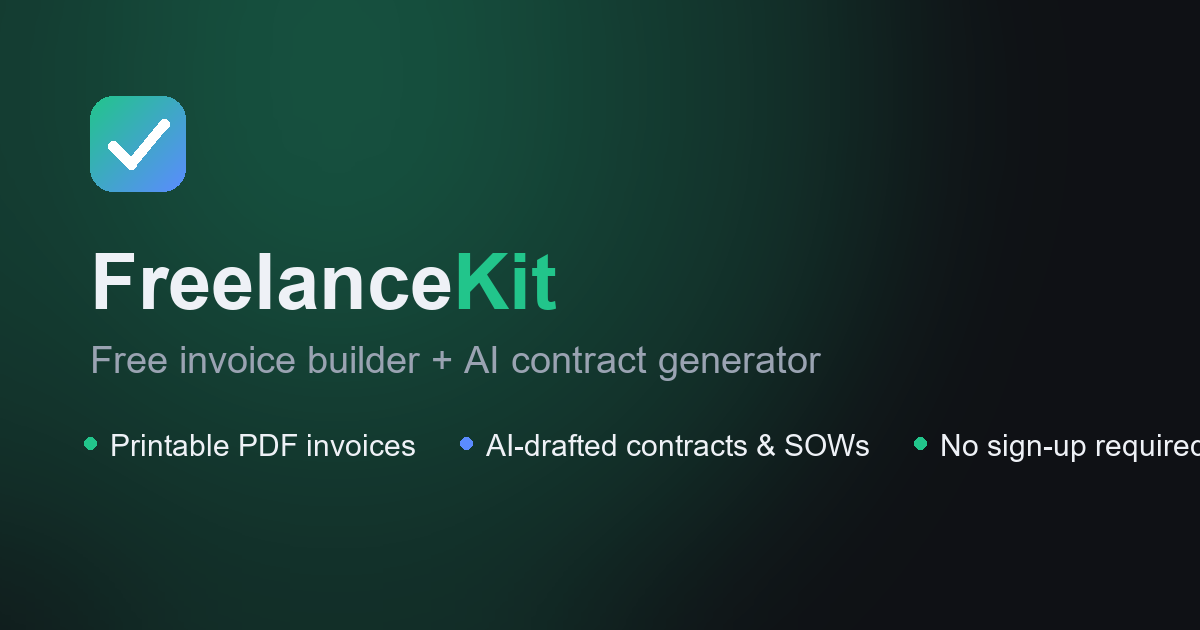
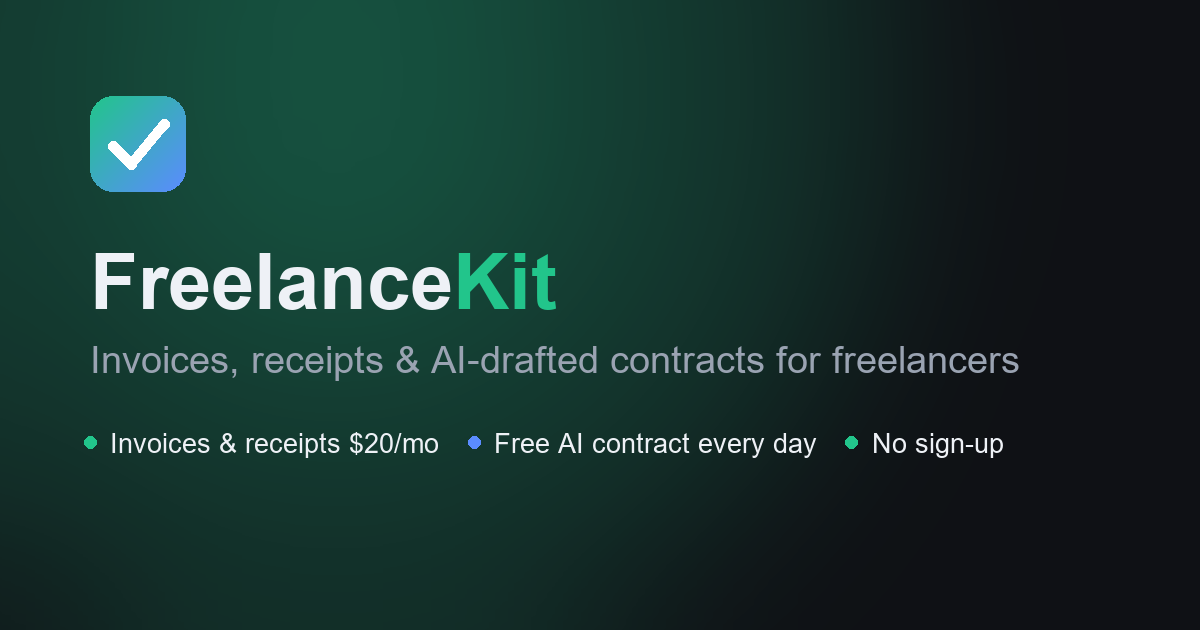
Gate Invoice Builder and Receipt Generator behind a $20/mo subscription
Adds a Stripe subscription checkout flow (mode: subscription) separate
from the existing one-time credit-pack purchase. A license key is stored
in localStorage after a verified checkout and re-checked against Stripe
on load, same pattern as the contract-credit licenses. Contract Generator
is untouched - still free-daily-limit + credit packs.

Updates copy/OG image since invoices and receipts are no longer free.

Changed region(s): [[0.0617, 0.5429, 0.6475, 0.6032], [0.0925, 0.6635, 1.0, 0.7238], [0.6783, 0.5429, 0.8633, 0.6032]]

diff --git a/public/index.html b/public/index.html
@@ -3,8 +3,8 @@
 <head>
 <meta charset="UTF-8">
 <meta name="viewport" content="width=device-width, initial-scale=1.0">
-<title>FreelanceKit - Free invoice builder + AI contract generator</title>
-<meta name="description" content="Build a professional invoice for free and generate a plain-English freelance contract or SOW with AI.">
+<title>FreelanceKit - Invoices, receipts &amp; AI-drafted contracts for freelancers</title>
+<meta name="description" content="Invoice and receipt tools for $20/month, plus a free AI-drafted freelance contract or SOW every day.">
 
 <link rel="icon" href="/favicon.ico" sizes="any">
 <link rel="icon" href="/favicon-32x32.png" type="image/png" sizes="32x32">
@@ -12,14 +12,14 @@
 <link rel="apple-touch-icon" href="/apple-touch-icon.png">
 
 <meta property="og:type" content="website">
-<meta property="og:title" content="FreelanceKit - Free invoice builder + AI contract generator">
-<meta property="og:description" content="Build a professional invoice for free and generate a plain-English freelance contract or SOW with AI.">
+<meta property="og:title" content="FreelanceKit - Invoices, receipts & AI-drafted contracts for freelancers">
+<meta property="og:description" content="Invoice and receipt tools for $20/month, plus a free AI-drafted freelance contract or SOW every day.">
 <meta property="og:image" content="https://invoice-generator-3cb2.onrender.com/og-image.png">
 <meta property="og:image:width" content="1200">
 <meta property="og:image:height" content="630">
 <meta name="twitter:card" content="summary_large_image">
-<meta name="twitter:title" content="FreelanceKit - Free invoice builder + AI contract generator">
-<meta name="twitter:description" content="Build a professional invoice for free and generate a plain-English freelance contract or SOW with AI.">
+<meta name="twitter:title" content="FreelanceKit - Invoices, receipts & AI-drafted contracts for freelancers">
+<meta name="twitter:description" content="Invoice and receipt tools for $20/month, plus a free AI-drafted freelance contract or SOW every day.">
 <meta name="twitter:image" content="https://invoice-generator-3cb2.onrender.com/og-image.png">
 
 <link rel="stylesheet" href="/style.css">
@@ -29,10 +29,10 @@
     <div class="wrap">
       <div class="brand">Freelance<span>Kit</span></div>
       <h1>Invoices &amp; contracts for freelancers, done in minutes</h1>
-      <p class="sub">Build a clean, printable invoice for free. Generate a plain-English service contract or SOW with AI when you need one.</p>
+      <p class="sub">Build clean, printable invoices and receipts with FreelanceKit Pro. Generate a plain-English service contract or SOW with AI — one free draft a day.</p>
       <div class="tabs">
-        <button class="tab active" data-tab="invoice">Invoice Builder (free)</button>
-        <button class="tab" data-tab="receipt">Receipt Generator (free)</button>
+        <button class="tab active" data-tab="invoice">Invoice Builder</button>
+        <button class="tab" data-tab="receipt">Receipt Generator</button>
         <button class="tab" data-tab="contract">Contract Generator</button>
       </div>
     </div>
@@ -41,7 +41,12 @@
   <main class="wrap">
     <!-- INVOICE BUILDER -->
     <section id="invoicePane">
-      <div class="card no-print">
+      <section id="invoiceLocked" class="card pay no-print">
+        <h2>Invoice Builder is part of FreelanceKit Pro</h2>
+        <p>Unlimited invoices &amp; receipts for <span class="subPrice">$20</span>/month &mdash; no per-invoice fees.</p>
+        <button class="btn primary sub-btn">Subscribe →</button>
+      </section>
+      <div class="card no-print" id="invoiceForm" style="display:none;">
         <div class="grid2">
           <div>
             <label>Your business name</label>
@@ -86,7 +91,12 @@
 
     <!-- RECEIPT GENERATOR -->
     <section id="receiptPane" style="display:none;">
-      <div class="card no-print">
+      <section id="receiptLocked" class="card pay no-print">
+        <h2>Receipt Generator is part of FreelanceKit Pro</h2>
+        <p>Unlimited invoices &amp; receipts for <span class="subPrice">$20</span>/month &mdash; no per-receipt fees.</p>
+        <button class="btn primary sub-btn">Subscribe →</button>
+      </section>
+      <div class="card no-print" id="receiptForm" style="display:none;">
         <div class="grid2">
           <div>
             <label>Received by (your business)</label>

diff --git a/public/app.js b/public/app.js
@@ -1,5 +1,55 @@
 const $ = (sel) => document.querySelector(sel);
 
+/* ---------- Pro subscription gate (Invoice Builder + Receipt Generator) ---------- */
+function getSubLicenseKey() { return localStorage.getItem('fk_sub_license') || ''; }
+function setSubLicenseKey(k) { localStorage.setItem('fk_sub_license', k); }
+function clearSubLicenseKey() { localStorage.removeItem('fk_sub_license'); }
+
+function renderSubGate(active) {
+  $('#invoiceForm').style.display = active ? 'block' : 'none';
+  $('#invoiceLocked').style.display = active ? 'none' : 'block';
+  $('#receiptForm').style.display = active ? 'block' : 'none';
+  $('#receiptLocked').style.display = active ? 'none' : 'block';
+}
+
+async function checkSubscription() {
+  const key = getSubLicenseKey();
+  if (!key) {
+    renderSubGate(false);
+    return;
+  }
+  try {
+    const r = await fetch('/api/subscription-status?licenseKey=' + encodeURIComponent(key));
+    const data = await r.json();
+    if (!data.active) clearSubLicenseKey();
+    renderSubGate(!!data.active);
+  } catch (e) {
+    // Network hiccup: don't lock out someone who's already paid based on a failed check.
+    renderSubGate(true);
+  }
+}
+
+document.querySelectorAll('.sub-btn').forEach((btn) => {
+  btn.addEventListener('click', async () => {
+    btn.disabled = true;
+    btn.textContent = 'Redirecting...';
+    try {
+      const r = await fetch('/api/subscribe', { method: 'POST' });
+      const data = await r.json();
+      if (data.url) window.location.href = data.url;
+      else {
+        alert(data.error || 'Could not start checkout.');
+        btn.disabled = false;
+        btn.textContent = 'Subscribe →';
+      }
+    } catch (e) {
+      alert('Network error starting checkout.');
+      btn.disabled = false;
+      btn.textContent = 'Subscribe →';
+    }
+  });
+});
+
 /* ---------- Tabs ---------- */
 document.querySelectorAll('.tab').forEach((tab) => {
   tab.addEventListener('click', () => {
@@ -185,6 +235,7 @@ async function loadConfig() {
     config = await r.json();
     $('#packCredits').textContent = config.packCredits;
     $('#packPrice').textContent = '$' + config.packPrice;
+    document.querySelectorAll('.subPrice').forEach((el) => (el.textContent = '$' + config.subPrice));
     renderBanner();
   } catch (e) {}
 }
@@ -204,13 +255,25 @@ async function handleSuccessRedirect() {
   const params = new URLSearchParams(window.location.search);
   const sessionId = params.get('session_id');
   if (!sessionId) return;
+  const purchase = params.get('purchase');
+
   try {
-    const r = await fetch('/api/verify-session?session_id=' + encodeURIComponent(sessionId));
-    const data = await r.json();
-    if (data.paid && data.licenseKey) {
-      setLicenseKey(data.licenseKey);
-      alert(`Payment received! ${data.credits} credits added to this browser. Save code ${data.licenseKey} in case you switch devices.`);
-      document.querySelector('.tab[data-tab="contract"]').click();
+    if (purchase === 'sub') {
+      const r = await fetch('/api/verify-subscription?session_id=' + encodeURIComponent(sessionId));
+      const data = await r.json();
+      if (data.active && data.licenseKey) {
+        setSubLicenseKey(data.licenseKey);
+        renderSubGate(true);
+        alert('Subscription active! Invoice Builder and Receipt Generator are now unlocked on this browser.');
+      }
+    } else {
+      const r = await fetch('/api/verify-session?session_id=' + encodeURIComponent(sessionId));
+      const data = await r.json();
+      if (data.paid && data.licenseKey) {
+        setLicenseKey(data.licenseKey);
+        alert(`Payment received! ${data.credits} credits added to this browser. Save code ${data.licenseKey} in case you switch devices.`);
+        document.querySelector('.tab[data-tab="contract"]').click();
+      }
     }
   } catch (e) { console.error(e); }
   window.history.replaceState({}, '', window.location.pathname);
@@ -307,4 +370,5 @@ $('#buyBtn').addEventListener('click', async () => {
 });
 
 loadConfig();
+checkSubscription();
 handleSuccessRedirect();

diff --git a/server.js b/server.js
@@ -15,7 +15,10 @@ const stripe = new Stripe(process.env.STRIPE_SECRET_KEY || 'sk_test_missing', { 
 const FREE_DAILY = parseInt(process.env.FREE_DAILY_GENERATIONS || '1', 10);
 const PACK_PRICE = parseInt(process.env.CREDIT_PACK_PRICE_USD || '12', 10);
 const PACK_CREDITS = parseInt(process.env.CREDIT_PACK_CREDITS || '15', 10);
+const SUB_PRICE = parseInt(process.env.SUB_PRICE_USD || '20', 10);
 const PUBLIC_URL = (process.env.PUBLIC_URL || 'http://localhost:3001').replace(/\/$/, '');
+
+const ACTIVE_SUB_STATUSES = ['active', 'trialing'];
 
 function getClientIp(req) {
   return (req.headers['x-forwarded-for'] || req.socket.remoteAddress || 'unknown')
@@ -25,7 +28,7 @@ function getClientIp(req) {
 }
 
 app.get('/api/config', (req, res) => {
-  res.json({ freeDaily: FREE_DAILY, packPrice: PACK_PRICE, packCredits: PACK_CREDITS });
+  res.json({ freeDaily: FREE_DAILY, packPrice: PACK_PRICE, packCredits: PACK_CREDITS, subPrice: SUB_PRICE });
 });
 
 app.post('/api/generate-contract', async (req, res) => {
@@ -107,7 +110,7 @@ app.post('/api/checkout', async (req, res) => {
           quantity: 1
         }
       ],
-      success_url: `${PUBLIC_URL}/?session_id={CHECKOUT_SESSION_ID}`,
+      success_url: `${PUBLIC_URL}/?purchase=credits&session_id={CHECKOUT_SESSION_ID}`,
       cancel_url: `${PUBLIC_URL}/`
     });
     res.json({ url: session.url });
@@ -130,6 +133,66 @@ app.get('/api/verify-session', async (req, res) => {
   } catch (err) {
     console.error(err);
     res.status(500).json({ error: 'Could not verify payment.' });
+  }
+});
+
+// Invoice Builder + Receipt Generator are gated behind this $20/mo subscription.
+// The Contract Generator is unaffected - it stays on the free-daily-limit + credit-pack model above.
+app.post('/api/subscribe', async (req, res) => {
+  try {
+    if (!process.env.STRIPE_SECRET_KEY) {
+      return res.status(500).json({ error: 'Stripe is not configured yet.' });
+    }
+    const session = await stripe.checkout.sessions.create({
+      mode: 'subscription',
+      line_items: [
+        {
+          price_data: {
+            currency: 'usd',
+            product_data: { name: 'FreelanceKit Pro - Invoice & Receipt tools' },
+            recurring: { interval: 'month' },
+            unit_amount: SUB_PRICE * 100
+          },
+          quantity: 1
+        }
+      ],
+      success_url: `${PUBLIC_URL}/?purchase=sub&session_id={CHECKOUT_SESSION_ID}`,
+      cancel_url: `${PUBLIC_URL}/`
+    });
+    res.json({ url: session.url });
+  } catch (err) {
+    console.error(err);
+    res.status(500).json({ error: 'Could not start checkout. Double check your Stripe secret key.' });
+  }
+});
+
+app.get('/api/verify-subscription', async (req, res) => {
+  try {
+    const { session_id } = req.query;
+    if (!session_id) return res.status(400).json({ error: 'Missing session_id' });
+    const session = await stripe.checkout.sessions.retrieve(session_id, { expand: ['subscription'] });
+    const sub = session.subscription;
+    if (sub && ACTIVE_SUB_STATUSES.includes(sub.status)) {
+      const licenseKey = store.createSubscriptionForSession(session_id, sub.id);
+      return res.json({ active: true, licenseKey });
+    }
+    res.json({ active: false });
+  } catch (err) {
+    console.error(err);
+    res.status(500).json({ error: 'Could not verify subscription.' });
+  }
+});
+
+app.get('/api/subscription-status', async (req, res) => {
+  try {
+    const { licenseKey } = req.query;
+    const subId = licenseKey ? store.getStripeSubscriptionId(licenseKey) : null;
+    if (!subId) return res.json({ active: false });
+    const sub = await stripe.subscriptions.retrieve(subId);
+    res.json({ active: ACTIVE_SUB_STATUSES.includes(sub.status) });
+  } catch (err) {
+    console.error(err);
+    res.json({ active: false });
   }
 });
 

diff --git a/lib/store.js b/lib/store.js
@@ -82,10 +82,36 @@ function useCredit(licenseKey) {
   return true;
 }
 
+// Idempotent, same pattern as createLicenseForSession: refreshing the success page
+// after a subscription checkout returns the same license instead of creating a new one.
+function createSubscriptionForSession(sessionId, stripeSubscriptionId) {
+  const db = readDB();
+  db.subscriptions = db.subscriptions || {};
+  db.subSessions = db.subSessions || {};
+  if (db.subSessions[sessionId]) {
+    return db.subSessions[sessionId];
+  }
+  const licenseKey =
+    'S-' + crypto.randomBytes(3).toString('hex').toUpperCase() +
+    '-' + crypto.randomBytes(3).toString('hex').toUpperCase();
+  db.subscriptions[licenseKey] = { stripeSubscriptionId, createdAt: Date.now() };
+  db.subSessions[sessionId] = licenseKey;
+  writeDB(db);
+  return licenseKey;
+}
+
+function getStripeSubscriptionId(licenseKey) {
+  const db = readDB();
+  const rec = (db.subscriptions || {})[licenseKey];
+  return rec ? rec.stripeSubscriptionId : null;
+}
+
 module.exports = {
   getFreeUsesLeft,
   recordFreeUse,
   createLicenseForSession,
   getCredits,
-  useCredit
+  useCredit,
+  createSubscriptionForSession,
+  getStripeSubscriptionId
 };
